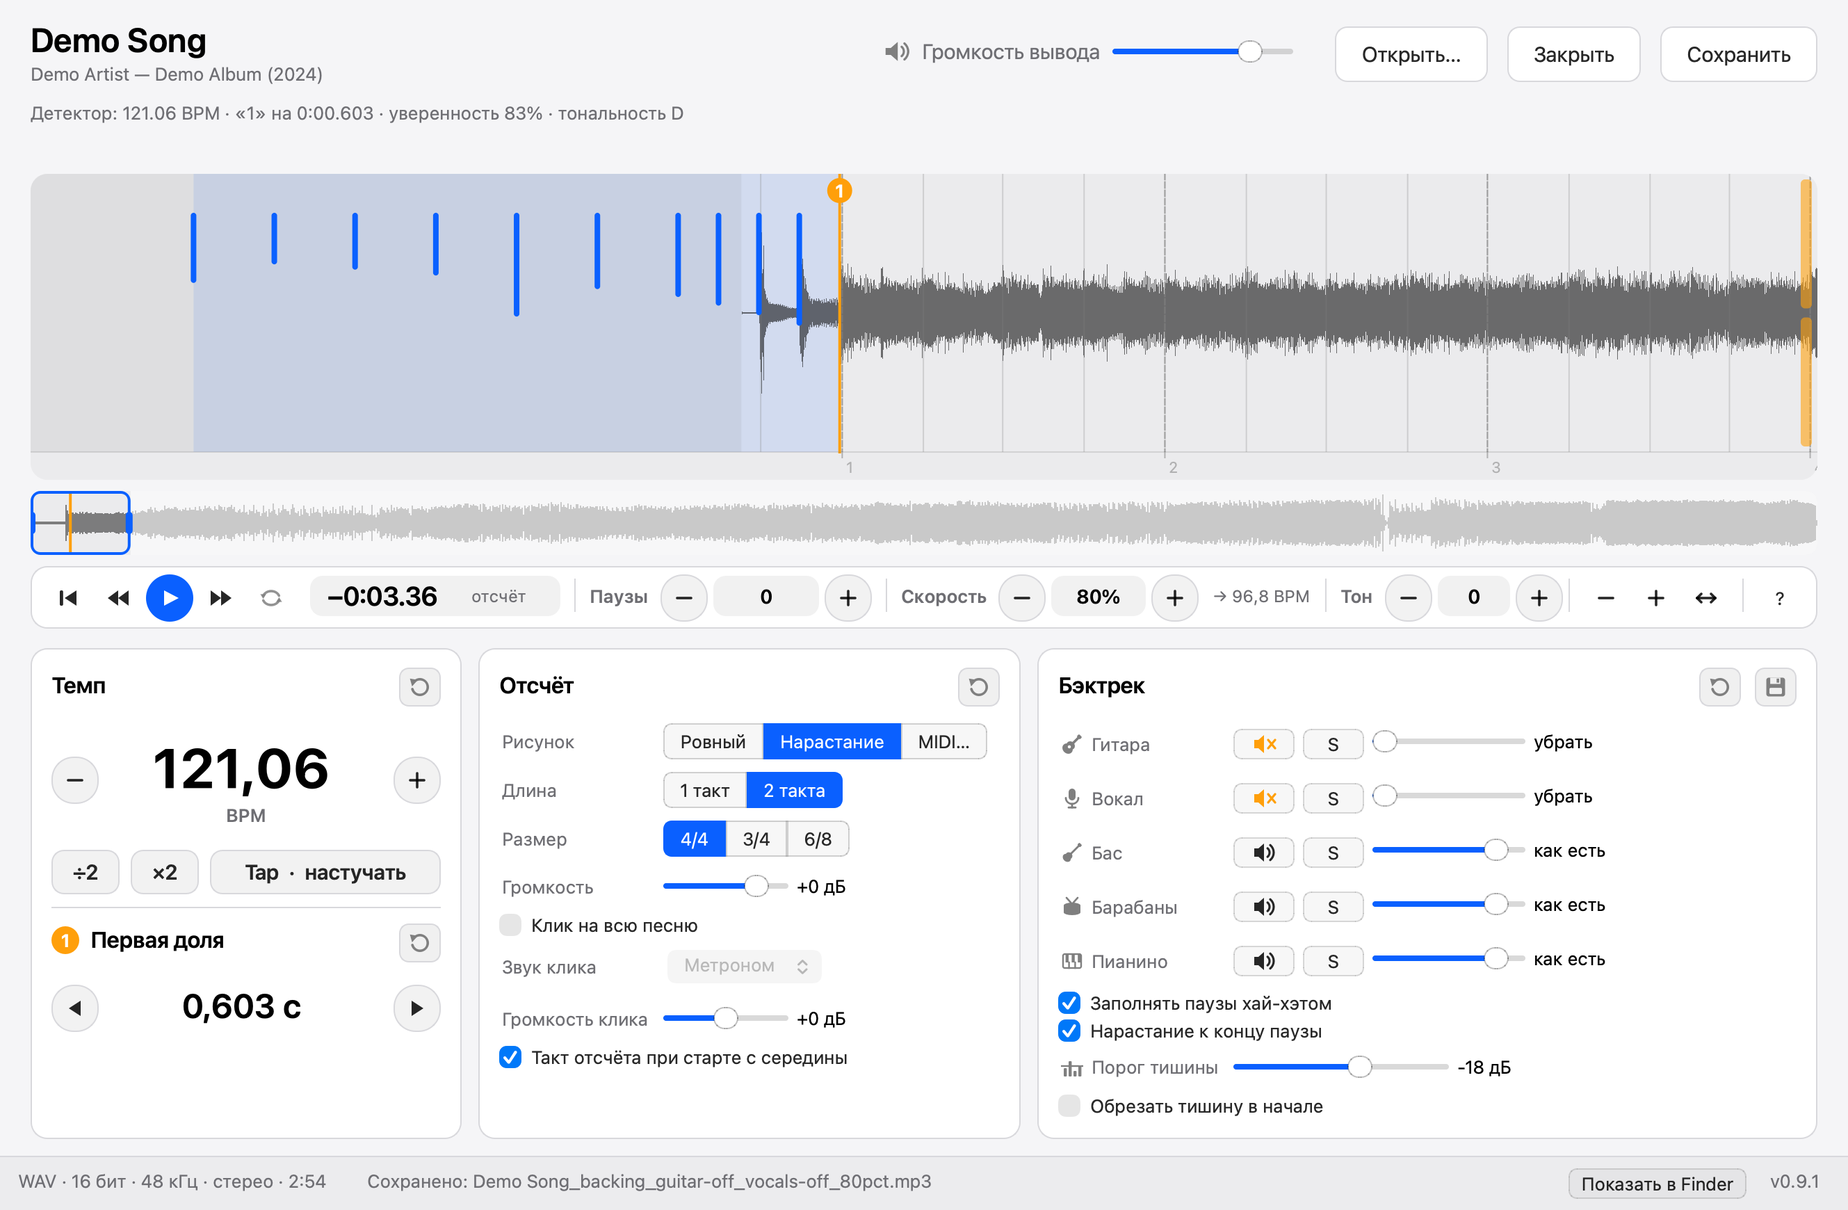
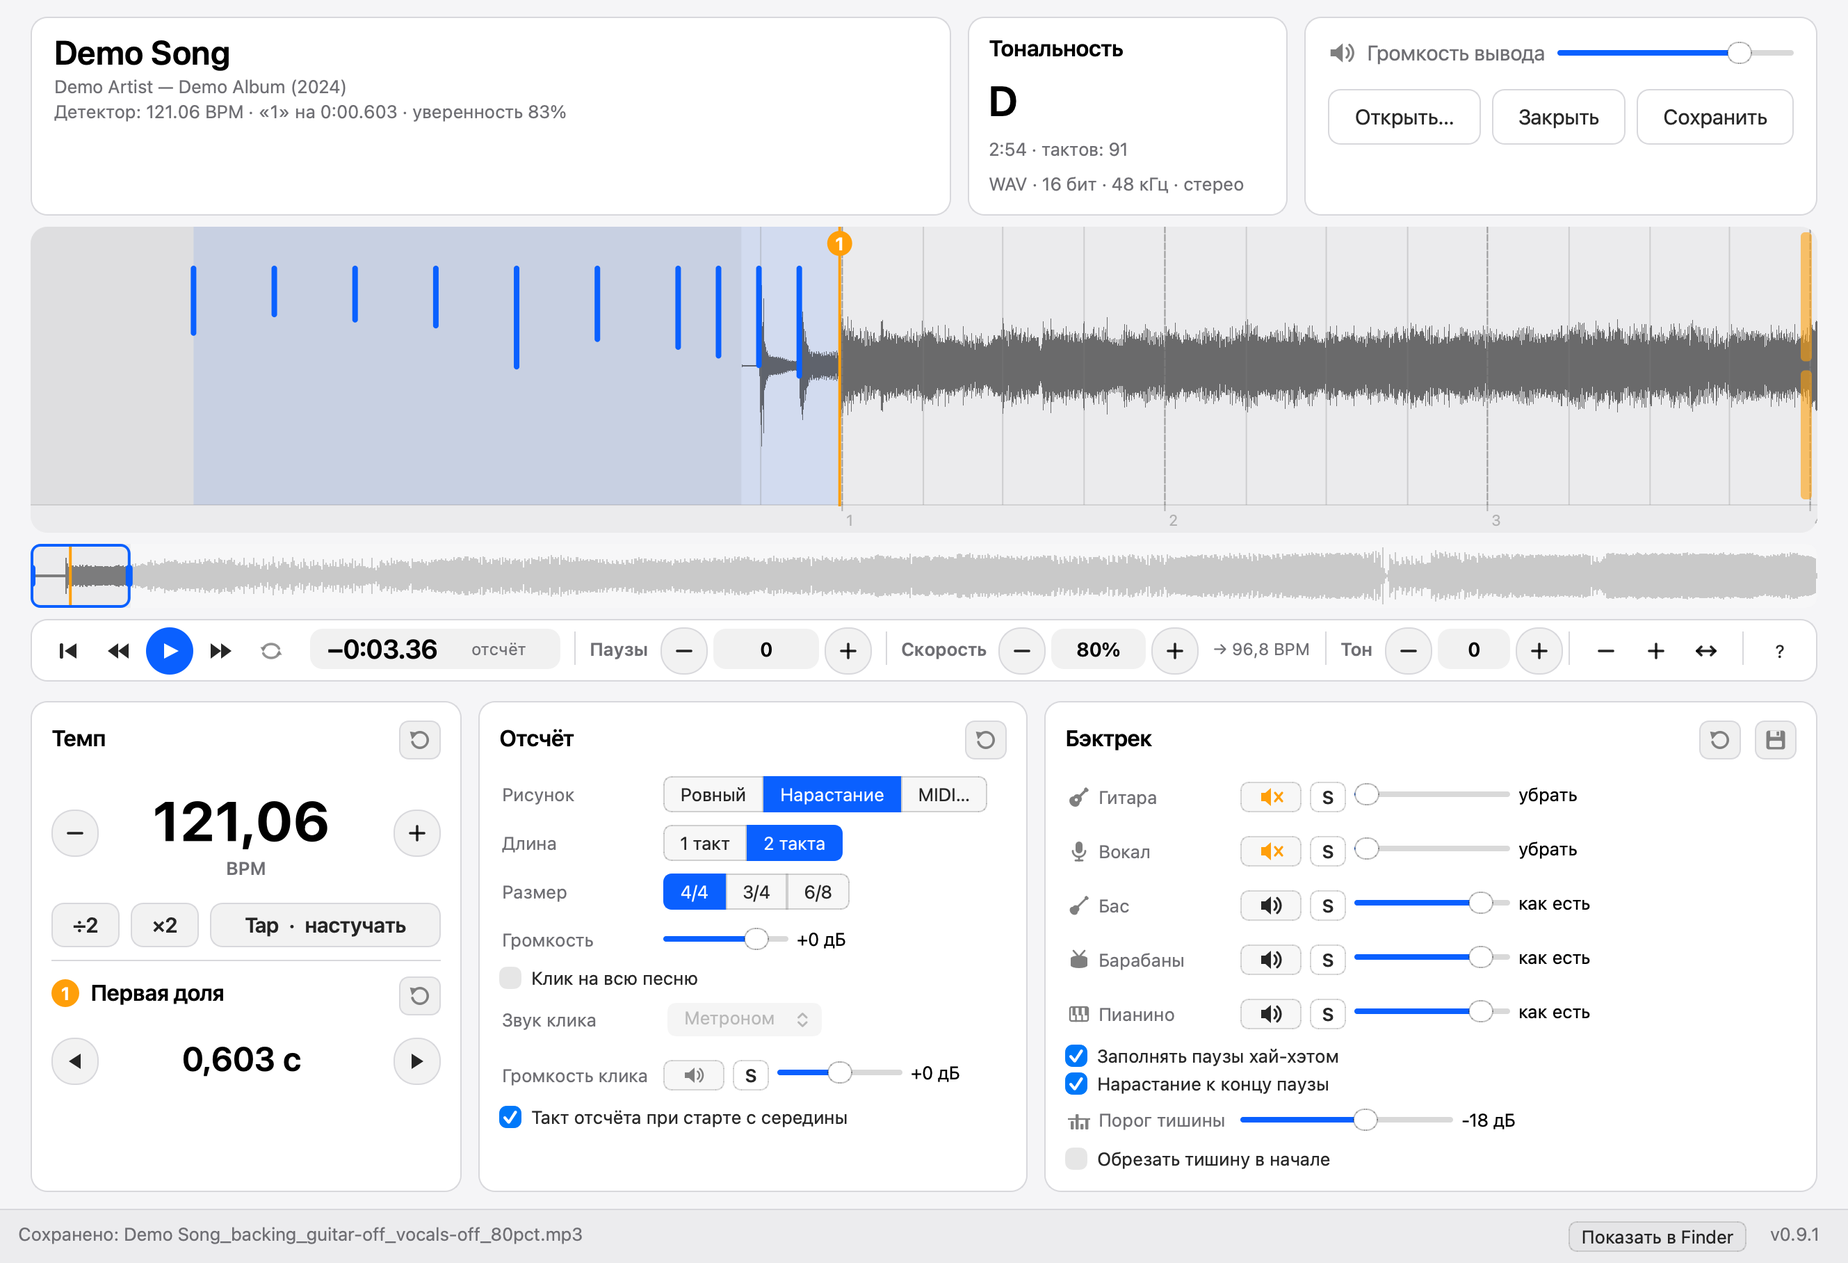
Header as three cards: song and detector, key and file, volume and file buttons; the click is its own live part with mute and solo; visible solo state

diff --git a/docs/ru/guide/index.html b/docs/ru/guide/index.html
@@ -46,7 +46,7 @@
 <main class="guide">
   <h1>Как работать с Count-In</h1>
   <p class="lead">Откройте песню, проверьте оранжевую «1», выберите отсчёт и сохраните. Остальное по желанию, и всё это описано ниже.</p>
-  <figure><img src="/guide/img/window.png" alt="Окно Count-In с выбранной паузой" width="1329" height="870"></figure>
+  <figure><img src="/guide/img/window.png" alt="Окно Count-In с выбранной паузой" width="1329" height="908"></figure>
   <ul class="toc">
     <li><a href="#s1">Первая доля и темп</a></li>
     <li><a href="#s2">Темп на слух (Tap)</a></li>

diff --git a/docs/guide/index.html b/docs/guide/index.html
@@ -46,7 +46,7 @@
 <main class="guide">
   <h1>How to use Count-In</h1>
   <p class="lead">Open a song, check the orange “1”, pick a count-in and save. Everything else is optional; this page walks through it.</p>
-  <figure><img src="/guide/img/window-en.png" alt="Count-In window with a selected pause" width="1329" height="870"></figure>
+  <figure><img src="/guide/img/window-en.png" alt="Count-In window with a selected pause" width="1329" height="908"></figure>
   <ul class="toc">
     <li><a href="#s1">First downbeat and tempo</a></li>
     <li><a href="#s2">Tap tempo</a></li>

diff --git a/docs/_guide.html b/docs/_guide.html
@@ -46,7 +46,7 @@
 <main class="guide">
   <h1>{{heading}}</h1>
   <p class="lead">{{lead}}</p>
-  <figure><img src="/guide/img/window{{sfx}}.png" alt="{{window_alt}}" width="1329" height="870"></figure>
+  <figure><img src="/guide/img/window{{sfx}}.png" alt="{{window_alt}}" width="1329" height="908"></figure>
   <ul class="toc">
 {{toc}}
   </ul>

diff --git a/src/countin/gui.py b/src/countin/gui.py
@@ -86,6 +86,7 @@ QPushButton#update { background: #0a84ff; color: white; border: none; border-rad
                      min-width: 20px; max-width: 20px; min-height: 20px; max-height: 20px; padding: 0; }
 QPushButton#update:hover { background: #409cff; }
 #title { font-size: 24px; font-weight: 600; }
+#keyBig { font-size: 30px; font-weight: 600; }
 #headerLabel { font-size: 15px; color: @FIELD@; }
 QPushButton#iconButton { border: 1px solid @BORDER@; border-radius: 7px; background: rgba(127,127,127,0.12); padding: 0; }
 QPushButton#iconButton:hover { background: rgba(127,127,127,0.24); }
@@ -120,6 +121,8 @@ QPushButton#primary:disabled { background: rgba(127,127,127,0.25); }
 QPushButton#tool { border: 1px solid @BORDER@; border-radius: 9px; padding: 8px 18px; font-size: 15px;
                    background: @CARD@; min-height: 22px; }
 QPushButton#tool:disabled { color: gray; }
+QPushButton#solo { border: 1px solid rgba(127,127,127,0.3); border-radius: 6px; padding: 0; font-weight: 600; }
+QPushButton#solo:checked { background: @ACCENT@; border-color: @ACCENT@; color: white; }
 QPushButton#small { border: 1px solid rgba(127,127,127,0.3); border-radius: 6px; padding: 2px 8px;
                     background: rgba(127,127,127,0.06); min-width: 26px; }
 QSlider::groove:horizontal { height: 4px; background: rgba(127,127,127,0.3); border-radius: 2px; }
@@ -538,12 +541,25 @@ def preview_job(job: Job, track: Track, s: Settings, pcm: np.ndarray, sr: int, c
         *slow, rest = rd.stretch_many([*part.values(), rest], sr, s.speed, s.semis)
         part = dict(zip(part, slow))
         song = rest + sum(part.values()) if part else rest
-    r = rd.render(song, sr, win, 0.0, "keep", s.volume_db, rd.load_samples(sr))
-    base = r.pcm
+    hits = rd.load_samples(sr)
+    r = rd.render(song, sr, win, 0.0, "keep", s.volume_db, hits)
+
+    # The click plays as its own part at full level: mute, solo and its level work live, and over a loud master
+    # it stays audible, while the saved file turns a click down to fit (render's limiter)
+    click = np.zeros(len(r.pcm), dtype=np.float32)
+    g = 10 ** (s.volume_db / 20)
+    for c, at in zip(win, r.click_samples):
+        pair = hits if c.voice == "stick" else rd.voice_samples(c.voice, sr)
+        x = (pair[0] if c.accent else pair[1]) * (g * c.gain)
+        n = min(len(x), len(click) - at)
+        click[at : at + n] += x[:n]
+    base = r.pcm - r.click[:, None] + click[:, None]
 
     # Stems play at the output positions of the song samples they came from.
     a = int(round(r.offset * sr))
-    return track, base, {k: (v, a) for k, v in part.items()}, sr, lo_t - r.offset * s.speed, new_cache, r.clipped
+    stems_out = {k: (v, a) for k, v in part.items()}
+    stems_out["click"] = (click[:, None], 0)
+    return track, base, stems_out, sr, lo_t - r.offset * s.speed, new_cache, r.clipped
 
 
 def target_path(song: Path, s: Settings, info: io.AudioInfo) -> Path:
@@ -3026,37 +3042,67 @@ class Window(QMainWindow):
         self.addAction(key_a)
 
     def _header(self) -> QWidget:
+        """Three cards like the ones under the waveform: the song and what the detector found, its key and
+        file, then the speaker level and the file buttons."""
         head = QWidget(objectName="header")
         h = QHBoxLayout(head)
-        h.setContentsMargins(22, 14, 22, 6)
-        text = QVBoxLayout()
-        text.setSpacing(2)
+        h.setContentsMargins(22, 12, 22, 4)
+        h.setSpacing(12)
+
+        song = QFrame(objectName="card")
+        sv = QVBoxLayout(song)
+        sv.setContentsMargins(16, 10, 16, 10)
+        sv.setSpacing(2)
         self.title = QLabel("Count-In", objectName="title")
         self.subtitle = QLabel(objectName="subtitle")
-        text.addWidget(self.title)
-        text.addWidget(self.subtitle)
-        h.addLayout(text, 1)
+        for w in (self.title, self.subtitle, self.detector, self.warning):
+            sv.addWidget(w)
+        sv.addStretch()
+        h.addWidget(song, 1)
 
+        self.info_card, g = card(_("Тональность"))
+        self.key_l = QLabel("—", objectName="keyBig")
+        self.key_l.setToolTip(_("Тональность оценена по спектру всей песни, проверьте её на слух"))
+        self.length_l = QLabel(objectName="subtitle")
+        self.file_l = QLabel(objectName="subtitle")
+        g.addWidget(self.key_l, 0, 0, 1, 2)
+        g.addWidget(self.length_l, 1, 0, 1, 2)
+        g.addWidget(self.file_l, 2, 0, 1, 2)
+        self.info_card.setMinimumWidth(230)
+        self.info_card.hide()  # shown once a track opens
+        h.addWidget(self.info_card, 0)
+
+        acts = QFrame(objectName="card")
+        av = QVBoxLayout(acts)
+        av.setContentsMargins(16, 12, 16, 12)
+        av.setSpacing(12)
         # Speaker level of the preview; not part of the song or the saved file
         self.speaker = speaker = QLabel(toolTip=_("Громкость прослушивания"))
-        self.out_volume = QSlider(Qt.Horizontal, minimum=0, maximum=100, fixedWidth=130,
+        self.out_volume = QSlider(Qt.Horizontal, minimum=0, maximum=100, minimumWidth=150,
                                   toolTip=_("Громкость прослушивания"), accessibleName=_("Громкость прослушивания"))
         self.out_volume.setValue(int(output_volume() * 100))
         self.out_volume.setFocusPolicy(Qt.TabFocus)
         self.out_volume.valueChanged.connect(self._output_volume)
         self._speaker_icon()
-        h.addWidget(speaker, 0, Qt.AlignVCenter)
-        h.addWidget(QLabel(_("Громкость вывода"), objectName="headerLabel"), 0, Qt.AlignVCenter)
-        h.addWidget(self.out_volume, 0, Qt.AlignVCenter)
-        h.addSpacing(16)
+        vol = QHBoxLayout()
+        vol.setSpacing(8)
+        vol.addWidget(speaker, 0, Qt.AlignVCenter)
+        vol.addWidget(QLabel(_("Громкость вывода"), objectName="headerLabel"), 0, Qt.AlignVCenter)
+        vol.addWidget(self.out_volume, 1, Qt.AlignVCenter)
+        av.addLayout(vol)
         self.open_b = QPushButton(_("Открыть…"), objectName="tool", clicked=self._open_dialog)
         self.save_b = QPushButton(_("Сохранить"), objectName="tool", clicked=self._save,
                                   toolTip=QKeySequence(QKeySequence.Save).toString(QKeySequence.NativeText))
         self.close_b = QPushButton(_("Закрыть"), objectName="tool", clicked=self._close_track,
                                    toolTip=QKeySequence(QKeySequence.Close).toString(QKeySequence.NativeText))
+        buttons = QHBoxLayout()
+        buttons.setSpacing(8)
         for b in (self.open_b, self.close_b, self.save_b):  # Play lives in the transport bar under the waveform
             b.setFocusPolicy(Qt.TabFocus)
-            h.addWidget(b)
+            buttons.addWidget(b)
+        av.addLayout(buttons)
+        av.addStretch()
+        h.addWidget(acts, 0)
         return head
 
     def _build_body(self):
@@ -3379,11 +3425,17 @@ class Window(QMainWindow):
         if self.play_start is not None:
             self._play_at(at, preroll=True)
 
+    def _click_mute(self, on: bool):
+        self.click_mute.setIcon(QIcon(part_icon("muted" if on else "speaker", QColor(127, 127, 127), 16)))
+        if hasattr(self, "parts"):  # the part sliders come later in the build
+            self._gains()
+
     def _solo(self, name: str, on: bool):
-        self.player.solo = {n for n, b in self.solo_b.items() if b.isChecked()}
-        if on and not self.player.src[1] and self.play_start is not None:
+        self.player.solo = {n for n, b in self.solo_b.items() if b.isChecked()} | (
+            {"click"} if self.solo_b_click.isChecked() else set())
+        if on and name != "click" and not self.player.src[1].keys() - {"click"} and self.play_start is not None:
             self._restart_preview(separate=True)  # the playing preview has no parts yet
-        elif on and self._full_stems() is None and not self.sep_job:
+        elif on and name != "click" and self._full_stems() is None and not self.sep_job:
             self.status.setText(_("Соло заработает, когда песня разделится на дорожки"))
 
     def _set_semis(self, n: int):
@@ -3619,7 +3671,16 @@ class Window(QMainWindow):
         self.click_db = QSlider(Qt.Horizontal, minimum=-12, maximum=12, minimumWidth=90)
         self.click_db.setValue(int(QSettings().value(CLICK_DB_KEY, 0)))
         self.click_db_l = QLabel(minimumWidth=60)
-        row(g, _("Громкость клика"), self.click_db, self.click_db_l)
+        self.click_mute = QPushButton(objectName="small", checkable=True, focusPolicy=Qt.TabFocus, fixedSize=QSize(30, 22),
+                                      toolTip=_("Выключить клик в прослушивании: отсчёт, паузы и клик песни"),
+                                      accessibleName=_("Выключить клик"))
+        self.click_mute.toggled.connect(self._click_mute)
+        self._click_mute(False)
+        click_solo = QPushButton("S", objectName="solo", checkable=True, focusPolicy=Qt.TabFocus, fixedSize=QSize(26, 22),
+                                 toolTip=_("Соло: в прослушивании звучит только клик"), accessibleName=_("Соло: клик"))
+        click_solo.toggled.connect(lambda on: self._solo("click", on))
+        self.solo_b_click = click_solo
+        row(g, _("Громкость клика"), self.click_mute, click_solo, self.click_db, self.click_db_l)
         self.preroll_cb = QCheckBox(_("Такт отсчёта при старте с середины"), objectName="rowCheck",
                                     checked=pref_bool(PREROLL_KEY, True))
         self.preroll_cb.setToolTip(_("Когда песня играет с плейхеда или петля начинается заново, перед этим местом звучит такт клика в его темпе."))
@@ -3636,7 +3697,7 @@ class Window(QMainWindow):
         for name, label, icon, tip in PARTS:
             s = self.parts[name] = QSlider(Qt.Horizontal, minimum=MUTE, maximum=BOOST, value=0, minimumWidth=110)
             self.part_l[name] = QLabel(minimumWidth=80)
-            solo = QPushButton("S", objectName="small", checkable=True, focusPolicy=Qt.TabFocus, fixedSize=QSize(26, 22),
+            solo = QPushButton("S", objectName="solo", checkable=True, focusPolicy=Qt.TabFocus, fixedSize=QSize(26, 22),
                                toolTip=_("Соло оставляет в прослушивании только эту дорожку"),
                                accessibleName=_("Соло: {part}", part=_(label)))
             solo.toggled.connect(lambda on, n=name: self._solo(n, on))
@@ -3706,8 +3767,6 @@ class Window(QMainWindow):
         v = QVBoxLayout(page)
         v.setContentsMargins(22, 4, 22, 12)
         v.setSpacing(8)
-        v.addWidget(self.detector)
-        v.addWidget(self.warning)
         v.addWidget(self.wave, 1)
         v.addWidget(Overview(self.wave, 46))
         v.addWidget(self._transport())
@@ -3719,7 +3778,6 @@ class Window(QMainWindow):
         sb = QStatusBar()
         sb.setSizeGripEnabled(False)
         self.setStatusBar(sb)
-        self.file_l = QLabel()
         self.status = QLabel()
         self.reveal_b = QPushButton(_("Показать в Finder") if sys.platform == "darwin" else _("Показать в папке"),
                                     objectName="small", clicked=self._reveal)
@@ -3730,7 +3788,6 @@ class Window(QMainWindow):
         self.update_b = QPushButton("↓", objectName="update", clicked=self._update_action)
         self.update_b.setFocusPolicy(Qt.TabFocus)
         self.update_b.setCursor(Qt.PointingHandCursor)
-        sb.addWidget(self.file_l)
         sb.addWidget(self.status, 1)
         sb.addPermanentWidget(self.reveal_b)
 
@@ -3945,7 +4002,9 @@ class Window(QMainWindow):
         who = " — ".join(x for x in (tags.get("artist"), tags.get("album")) if x)
         year = (tags.get("date") or "")[:4]
         self.subtitle.setText(who + (f" ({year})" if year and who else year))
-        self.file_l.setText(f"{io.describe(i)} · {fmt_time(i.duration)[:-4]}")
+        self.file_l.setText(io.describe(i))
+        self.length_l.setText(fmt_time(i.duration)[:-4])
+        self.info_card.show()
 
     def _analyzed(self, result):
         t, pcm, sr, env = result
@@ -3992,13 +4051,15 @@ class Window(QMainWindow):
         a = t.analysis
         text = _("Детектор: {bpm:.2f} BPM · «1» на {t} · уверенность {conf:.0%}",
                  bpm=a.bpm, t=fmt_time(a.first_downbeat), conf=a.confidence)
+        self.detector.setText(text)
+        key = "—"
         if t.tonal:
             key = an.key_name(*t.tonal[:2])
             if self.semis:
-                key += " → " + an.key_name(*t.tonal[:2], self.semis)
-            text += " · " + _("тональность {key}", key=key)
-        self.detector.setText(text)
-        self.detector.setToolTip(_("Тональность оценена по спектру всей песни, проверьте её на слух") if t.tonal else "")
+                key += "  →  " + an.key_name(*t.tonal[:2], self.semis)
+        self.key_l.setText(key)
+        if t.bars:
+            self.length_l.setText(_("{time} · тактов: {n}", time=fmt_time(t.duration)[:-4], n=len(t.bars)))
 
     def _song_changed(self, *_args):
         if self.current and self.current.analysis and not self.restoring:
@@ -4214,12 +4275,14 @@ class Window(QMainWindow):
 
     def _gains(self):
         self.player.gains = {name: keep(s.value()) for name, s in self.parts.items()}
+        self.player.gains["click"] = 0.0 if self.click_mute.isChecked() else 1.0
         self._song_changed()
 
         # A preview started with all parts as they are has no stems to turn down: rebuild it with them. With
         # the pause fill on, the pause search separates the whole song anyway and rebuilds the preview after,
         # so a second, excerpt-only separation would only cost time.
-        if (self.play_start is not None and not self.player.src[1] and any(g < 1 for g in self.player.gains.values())
+        if (self.play_start is not None and not self.player.src[1].keys() - {"click"}
+                and any(g < 1 for k, g in self.player.gains.items() if k != "click")
                 and not (self._filling() and self._full_stems() is None) and not cloud_on()):
             self._restart_preview(separate=True)
 
@@ -4379,8 +4442,10 @@ class Window(QMainWindow):
         self.wave.bars, self.wave.zones, self.wave.ref_db, self.wave.markers = [], [], None, []
         self.wave._cache = (None, None)
         self.wave.update()
-        for label in (self.subtitle, self.detector, self.warning, self.file_l, self.status):
+        for label in (self.subtitle, self.detector, self.warning, self.file_l, self.length_l, self.status):
             label.setText("")
+        self.key_l.setText("—")
+        self.info_card.hide()
         self.reveal_b.hide()
 
     def _close_track(self):

diff --git a/src/countin/i18n.py b/src/countin/i18n.py
@@ -208,6 +208,12 @@ EN = {
     "Разделяю отрывок": "Separating the excerpt",
     "Сборка отрывка": "Building the excerpt",
     "Сборка дорожек": "Building the parts",
+    "Выключить клик в прослушивании: отсчёт, паузы и клик песни": "Mute the click in playback: count-in, pauses and the song click",
+    "Выключить клик": "Mute the click",
+    "Соло: в прослушивании звучит только клик": "Solo: only the click plays",
+    "Соло: клик": "Solo: click",
+    "Тональность": "Key",
+    "{time} · тактов: {n}": "{time} · {n} bars",
     "Паузы": "Pauses",
     "Чтобы собрать сет-лист, откройте или перетащите несколько песен сразу": "To make a set list, open or drop several songs at once",
     "Сет-лист: песня {i} из {n}": "Set list: song {i} of {n}",
@@ -236,7 +242,6 @@ EN = {
     "Соло оставляет в прослушивании только эту дорожку": "Solo plays only this part",
     "Соло: {part}": "Solo: {part}",
     "Соло заработает, когда песня разделится на дорожки": "Solo works once the song is separated into parts",
-    "тональность {key}": "key {key}",
     "Тональность оценена по спектру всей песни, проверьте её на слух": "The key is estimated from the whole song's spectrum, so check it by ear",
     "Тон": "Key",
     "На полтона ниже": "A semitone down",
